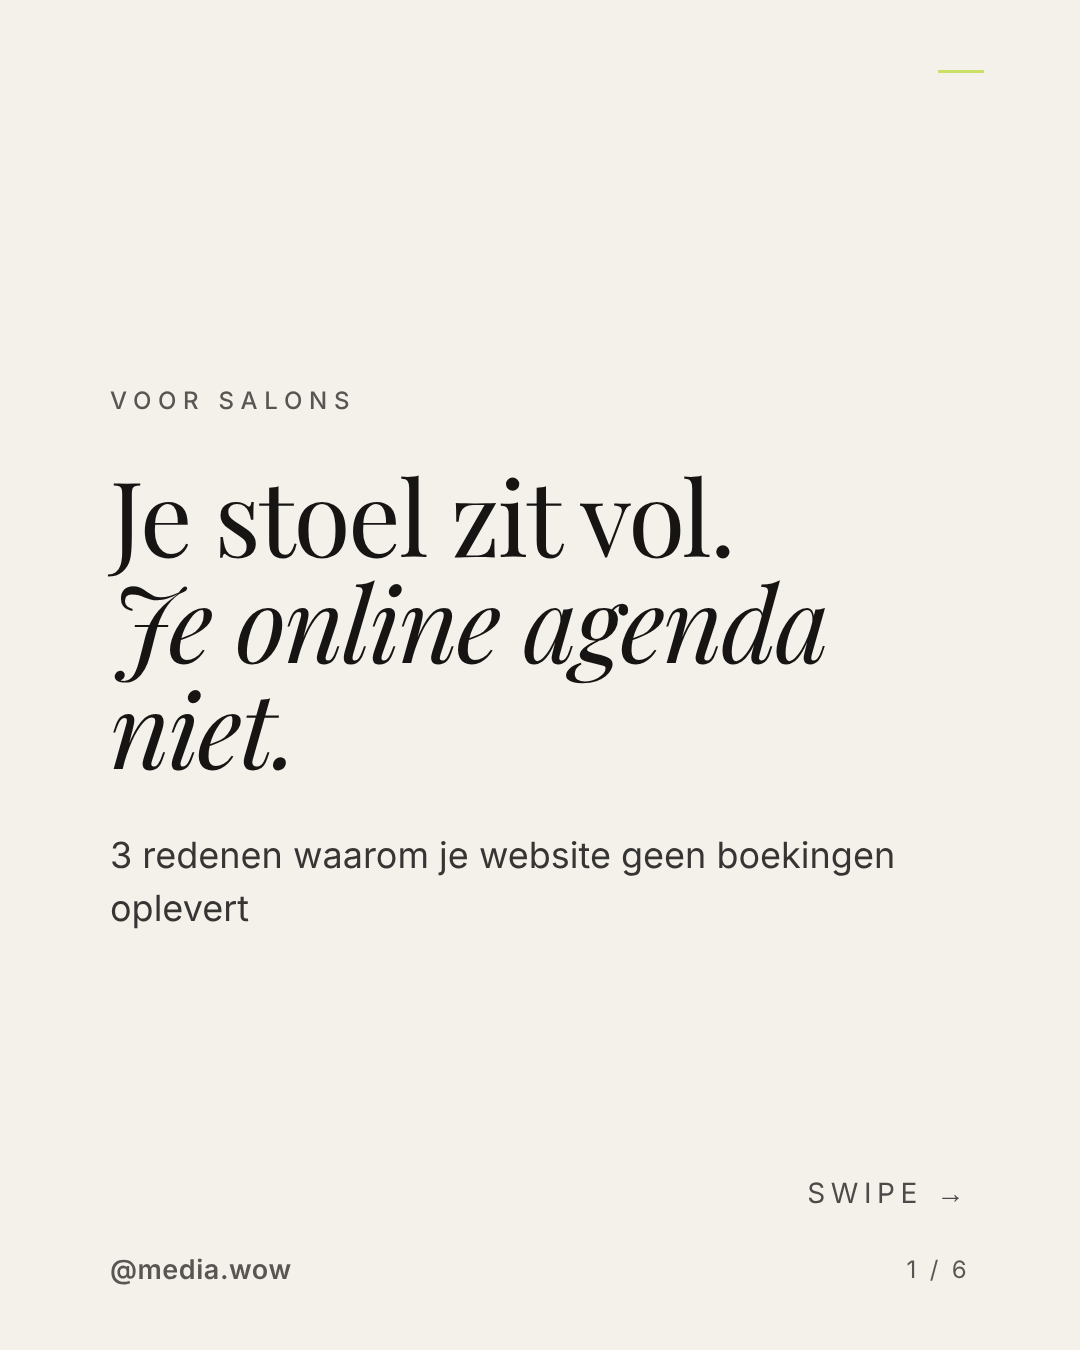
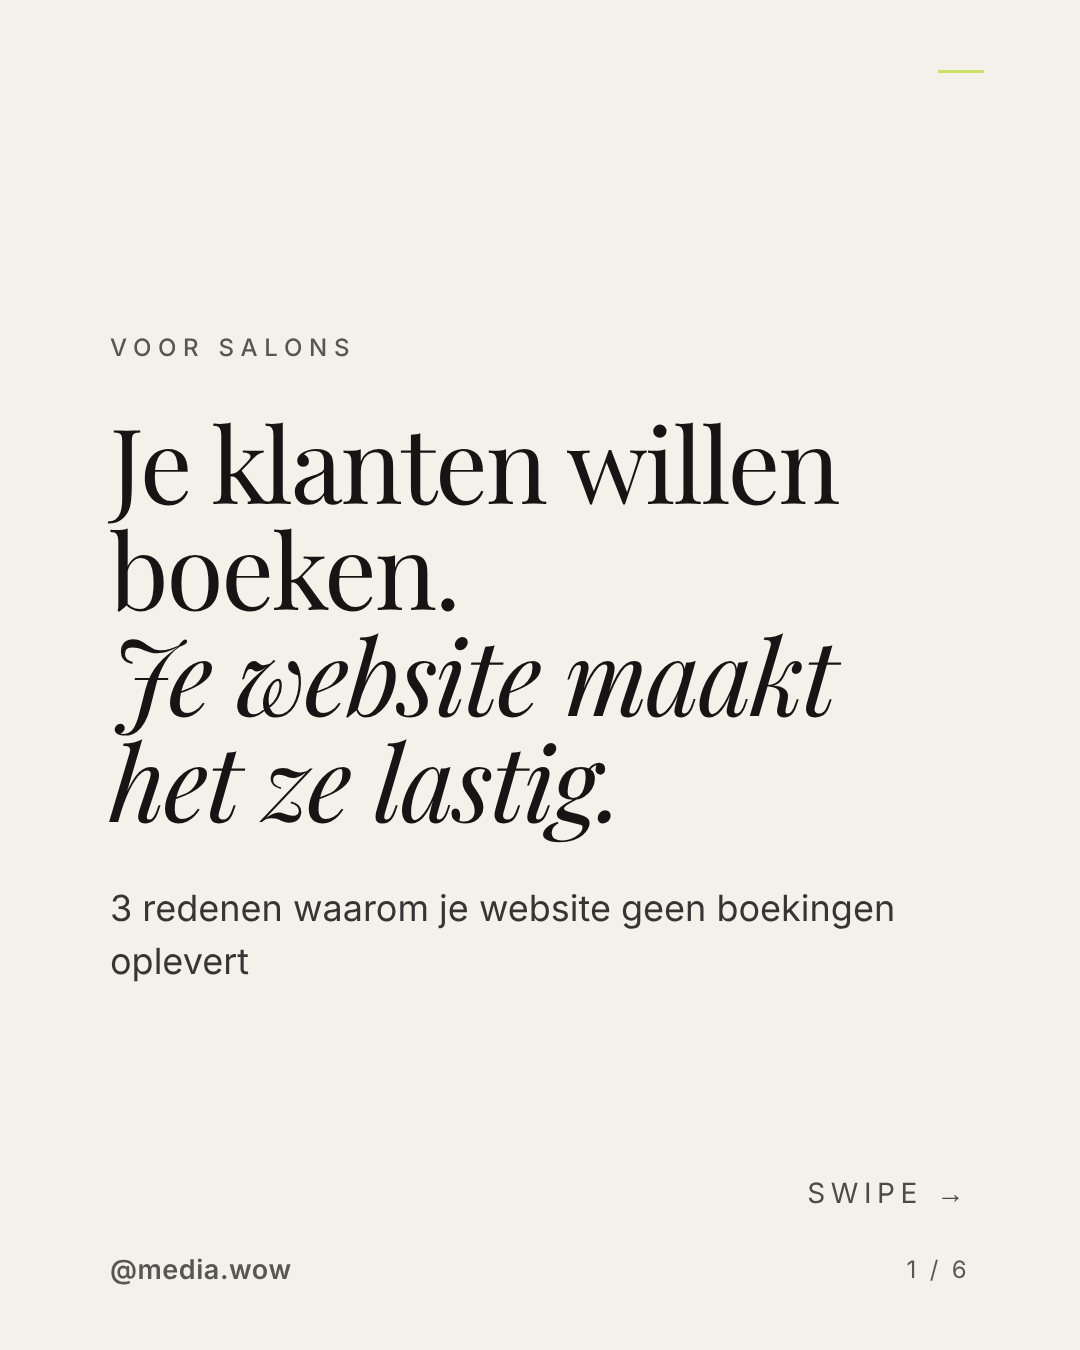
Rewrite salon and horeca hooks so they read naturally
Claude-Session: https://claude.ai/code/session_01RBQ5c9Pv2G8CobvSf5vDwJ

Changed region(s): [[0.0917, 0.2489, 0.825, 0.7467], [0.1222, 0.2489, 0.1833, 0.3111]]

diff --git a/instagram/content-plan.md b/instagram/content-plan.md
@@ -17,8 +17,8 @@ Gebaseerd op de analyse van @media.wow (stap 1) en mediawow.nl. Alle feiten in d
 
 ### 5 postideeën per pijler
 **Website die wérkt**
-1. Je stoel zit vol, je online agenda niet *(week 1)*
-2. Je terras zit vol, maar je website verkoopt geen tafel *(week 1)*
+1. Je klanten willen boeken, je website maakt het ze lastig *(week 1)*
+2. Gasten willen reserveren, je website laat ze zoeken *(week 1)*
 3. Coaches: waarom ‘Over mij’ je belangrijkste pagina is
 4. 5 seconden-test: snapt een vreemde wat je doet?
 5. Waarom je menukaart-pdf gasten kost
@@ -48,8 +48,8 @@ Gebaseerd op de analyse van @media.wow (stap 1) en mediawow.nl. Alle feiten in d
 
 ## 2. Vijftien hooks (mix van nieuwsgierigheid, persoonlijk, fouten en meningen)
 
-1. Je stoel zit vol. Je online agenda niet.
-2. Je terras zit vol. Maar je website verkoopt geen tafel.
+1. Je klanten willen boeken. Je website maakt het ze lastig.
+2. Gasten willen reserveren. Je website laat ze zoeken.
 3. Wix, Canva of AI? Heb je mij eigenlijk nog nodig?
 4. Geen ticketnummer. Geen ‘ik verbind je door’. Gewoon ik.
 5. Wat kost een website laten maken? Geen ‘dat hangt ervan af’.
@@ -59,13 +59,13 @@ Gebaseerd op de analyse van @media.wow (stap 1) en mediawow.nl. Alle feiten in d
 9. ‘Ben je nog wel aan het werk?’ Juist daarom is het hier stil.
 10. Een website zonder knop is een winkel zonder kassa.
 11. Als een vreemde in 5 seconden niet snapt wat je doet, is hij weg.
-12. Mooi is mooi. Maar vol is mooier.
+12. Mooi is mooi. Maar een volle agenda is mooier.
 13. Het eerste wat ik vraag bij een nieuwe klant is níet ‘welke kleur?’
 14. AI kent jouw klanten niet. Ik wel (na één kop koffie).
 15. Wat als je je nieuwe website al kon zien, voordat je ja zegt?
 
 ### Top 3 en waarom
-1. **#1 “Je stoel zit vol. Je online agenda niet.”** Salons zijn een kerndoelgroep. De hook beschrijft hun situatie (druk, maar online leeg) in 7 woorden en belooft een oplossing.
+1. **#1 “Je klanten willen boeken. Je website maakt het ze lastig.”** Salons zijn een kerndoelgroep. De hook beschrijft hun situatie (druk, maar online leeg) (ze willen wel, maar het lukt niet) en wijst meteen de schuldige aan: de website, niet de salon.
 2. **#3 “Wix, Canva of AI? Heb je mij eigenlijk nog nodig?”** Dit is een vervolg op je best scorende eigen onderwerp (AI, 1.971 weergaven) en de vraag die elke twijfelende ondernemer zichzelf stelt. Omdat je eerlijk bent, durven mensen hem te delen.
 3. **#15 “Wat als je je nieuwe website al kon zien…”** Dit maakt de stap naar jou kleiner. Het sluit aan op je gratis preview, je zachtste en sterkste call-to-action.
 
@@ -77,12 +77,12 @@ Verdeling: **3× ontdekking, 2× vertrouwen, 2× verkoop.** Elke dag een andere 
 
 | Dag | Doel | Onderwerp | Hook | Format | Kernpunten | CTA |
 |---|---|---|---|---|---|---|
-| **Ma** | Ontdekking | Salonwebsite | Je stoel zit vol. Je online agenda niet. | Carousel, 6 slides | Boekknop te ver weg · prijzen onvindbaar · boeken voelt als andere winkel | Reageer PREVIEW |
+| **Ma** | Ontdekking | Salonwebsite | Je klanten willen boeken. Je website maakt het ze lastig. | Carousel, 6 slides | Boekknop te ver weg · prijzen onvindbaar · boeken voelt als andere winkel | Reageer PREVIEW |
 | **Di** | Vertrouwen | Eén aanspreekpunt | Geen ticketnummer… Gewoon ik. | Single + persoonlijke caption | Eén contactpersoon · reactie binnen 1 werkdag · snelle beslissingen | DM “waar begin ik?” |
 | **Wo** | Ontdekking | DIY vs. maatwerk | Wix, Canva of AI? | Carousel, 7 slides | Wanneer zelf doen prima is · valkuilen · wat AI niet kan · wanneer maatwerk | DM je website |
 | **Do** | Vertrouwen | Klantverhaal Lilou | *zie hieronder* | Carousel met jouw foto’s, of reel | Vraag · ontwerpkeuze · reactie klant | Bekijk portfolio |
 | **Vr** | Verkoop | Prijzen | Wat kost een website bij MediaWow? | Carousel, 6 slides | €2.995 vanaf · €165 p/m · inbegrepen · voor wie | Plan een kennismaking |
-| **Za** | Ontdekking | Horecawebsite | Je terras zit vol. Maar je website verkoopt geen tafel. | Carousel, 6 slides | Menu geen pdf · reserveerknop · openingstijden · echte foto’s | Reageer PREVIEW + doorsturen |
+| **Za** | Ontdekking | Horecawebsite | Gasten willen reserveren. Je website laat ze zoeken. | Carousel, 6 slides | Menu geen pdf · reserveerknop · openingstijden · echte foto’s | Reageer PREVIEW + doorsturen |
 | **Zo** | Verkoop | Gratis preview | Wat als je je nieuwe website al kon zien? | Single | Laagdrempelig · geen verplichting | Reageer PREVIEW |
 
 Afbeeldingen en captions staan klaar in `week-1/<dag>/` (slide-01.png …, caption.txt).
